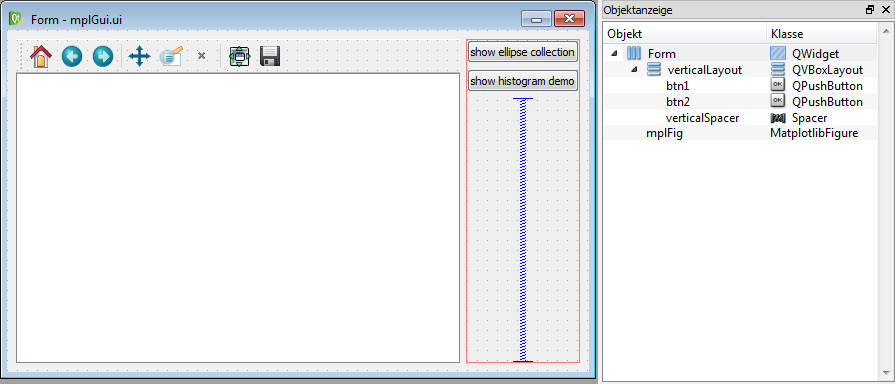
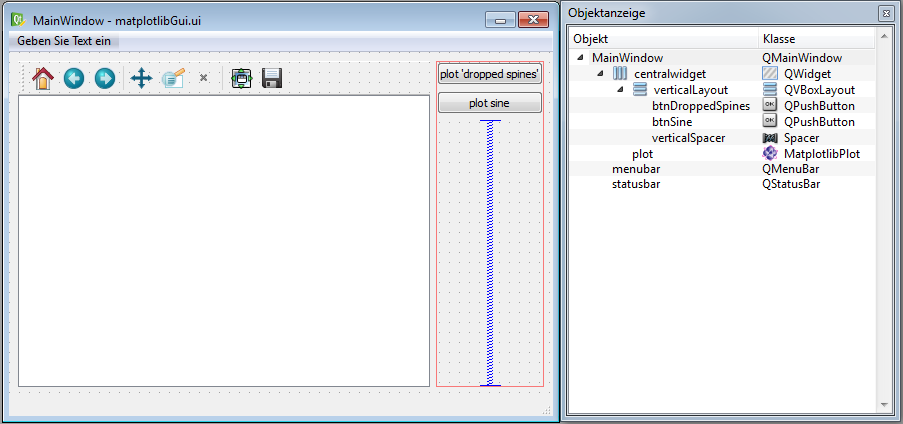
documentation about embedded matplotlib added (including the corresponding demo script)

Changed region(s): [[0.0, 0.0, 1.0, 1.0]]

diff --git a/demo/ui/embeddedMatplotlib/matplotlibGui.py b/demo/ui/embeddedMatplotlib/matplotlibGui.py
@@ -1,0 +1,56 @@
+import matplotlib
+matplotlib.use('module://mpl_itom.backend_itomagg',False)
+import numpy as np
+import matplotlib.pyplot as plt
+from mpl_toolkits.mplot3d import Axes3D
+
+def plotDroppedSpines():
+    '''
+    plot taken from matplotlib example 'spines_demo_dropped.py'
+    '''
+    canvas = gui.plot #reference to matplotlibPlot widget
+    fig = plt.figure(num = 3, canvas=canvas)
+    ax = fig.add_subplot(111)
+    ax.clear()
+    
+    image = np.random.uniform(size=(10, 10))
+    ax.imshow(image, cmap=plt.cm.gray, interpolation='nearest')
+    ax.set_title('dropped spines')
+
+    # Move left and bottom spines outward by 10 points
+    ax.spines['left'].set_position(('outward', 10))
+    ax.spines['bottom'].set_position(('outward', 10))
+    # Hide the right and top spines
+    ax.spines['right'].set_visible(False)
+    ax.spines['top'].set_visible(False)
+    # Only show ticks on the left and bottom spines
+    ax.yaxis.set_ticks_position('left')
+    ax.xaxis.set_ticks_position('bottom')
+    
+    plt.show()
+    
+
+def plotSine():
+    '''
+    plots sine, taken from matplotlib gallery examples
+    '''
+    t = np.arange(0.0, 1.0, 0.01)
+    s = np.sin(2*np.pi*t)
+    
+    canvas = gui.plot #reference to matplotlibPlot widget
+    fig = plt.figure(num = 3, canvas=canvas)
+    ax = fig.add_subplot(111)
+    ax.clear()
+    ax.plot(t,s)
+    
+    plt.show()
+
+gui = ui("matplotlibGui.ui", type = ui.TYPEWINDOW)
+gui.btnSine.connect("clicked()", plotSine)
+gui.btnDroppedSpines.connect("clicked()", plotDroppedSpines)
+gui.show()
+
+# if you call this script for the second time, the given figure-num (3)
+# is already in used for the lastly closed figure. Therefore also tell
+# matplotlib to close this figure handle.
+plt.close(3)

diff --git a/docs/userDoc/source/08_scriptLanguage/pymod-matplotlib.rst b/docs/userDoc/source/08_scriptLanguage/pymod-matplotlib.rst
@@ -70,26 +70,124 @@ Its source code is:
 Please consider that the original source code has been changed such that the first two lines are prepended. After executing this script, the following figure is displayed in |itom|:
 
 .. figure:: images/matplotlib_ellipseCollection.png
-    :scale: 100%
+    :scale: 80%
     :align: center
 
 .. note::
     
-    If the figure does not appear, the matplotlib designer widget for |itom| is not available. This means, the library **matplotlibFigure** in the **designer** folder of |itom| is missing.
+    If the figure does not appear, the matplotlib designer widget for |itom| is not available. This means, the library **matplotlibPlot** in the **designer** folder of |itom| is missing.
     
 Embedding a matplotlib figure in your own user interface
 ---------------------------------------------------------
 
-|itom| not only provides stand-alone windows for showing the result of the matplotlib, but it is also possible to integrate a matplotlib canvas into own user interfaces created by the
+|itom| not only provides stand-alone windows for showing the result of the *matplotlib*, but it is also possible to integrate a *matplotlib* canvas into own user interfaces created by the
 QtDesigner and scripted with |python|. For more information how to do this, see :ref:`qtdesigner`.
 
-If you open the QtDesigner, you will see a widget **MatplotlibFigure** in the section **ITOM Plugins**. Then you can drag&drop one instance of this widget onto your user interface. In our
-case we opened a new main window and placed on the left side a MatplotlibFigure (name: mplFig) and on the right side, there are two buttons (name: btn1 and btn2):
+In the widget library of QtDesigner there is the widget **MatplotlibPlot** in the section **itom Plugins** (under the consumption that the corresponding designer plugin library is contained in the folder *designer* of the root directory of |itom|). Drag&Drop an instance of this widget onto your user interface. 
+
+In the following example, a new main window is created where a *MatplotlibPlot* widget (name: *plot*) is placed on the left side while two buttons (name: *btnDroppedSpines* and *btnSine*) are placed on the right side:
 
 .. figure:: images/matplotlib_gui.png
-    :scale: 100%
+    :scale: 80%
     :align: center
 
-When any of the both buttons are pressed, the corresponding example should be displayed in the figure **mplFig** on the left side.
+When any of the both buttons are pressed, the following example should be displayed in the figure **plot** on the left side.
 
-Rest TODO
+.. code-block:: python
+    
+    import matplotlib
+    matplotlib.use('module://mpl_itom.backend_itomagg',False)
+    import numpy as np
+    import matplotlib.pyplot as plt
+    from mpl_toolkits.mplot3d import Axes3D
+
+    def plotDroppedSpines():
+        '''
+        plot taken from matplotlib example 'spines_demo_dropped.py'
+        '''
+        canvas = gui.plot #reference to matplotlibPlot widget
+        fig = plt.figure(num = 3, canvas=canvas)
+        ax = fig.add_subplot(111)
+        ax.clear()
+        
+        image = np.random.uniform(size=(10, 10))
+        ax.imshow(image, cmap=plt.cm.gray, interpolation='nearest')
+        ax.set_title('dropped spines')
+
+        # Move left and bottom spines outward by 10 points
+        ax.spines['left'].set_position(('outward', 10))
+        ax.spines['bottom'].set_position(('outward', 10))
+        # Hide the right and top spines
+        ax.spines['right'].set_visible(False)
+        ax.spines['top'].set_visible(False)
+        # Only show ticks on the left and bottom spines
+        ax.yaxis.set_ticks_position('left')
+        ax.xaxis.set_ticks_position('bottom')
+        
+        plt.show()
+        
+
+    def plotSine():
+        '''
+        plots sine, taken from matplotlib gallery examples
+        '''
+        t = np.arange(0.0, 1.0, 0.01)
+        s = np.sin(2*np.pi*t)
+        
+        canvas = gui.plot #reference to matplotlibPlot widget
+        fig = plt.figure(num = 3, canvas=canvas)
+        ax = fig.add_subplot(111)
+        ax.clear()
+        ax.plot(t,s)
+        
+        plt.show()
+
+    gui = ui("matplotlibGui.ui", type = ui.TYPEWINDOW)
+    gui.btnSine.connect("clicked()", plotSine)
+    gui.btnDroppedSpines.connect("clicked()", plotDroppedSpines)
+    gui.show()
+
+    # if you call this script for the second time, the given figure-num (3)
+    # is already in used for the lastly closed figure. Therefore also tell
+    # matplotlib to close this figure handle.
+    plt.close(3)
+    
+The result is:
+
+.. figure:: images/matplotlib_gui_result.png
+    :scale: 80%
+    :align: center
+
+**What happens here?**
+
+* At the end of the script, the user interface *matplotlibGui.ui* is loaded and referenced by the variable *gui*.
+* The click-events of both buttons is connected to the methods *plotSine* and *plotDroppedSpines* respectively.
+* The gui is shown
+
+For both button clicks the following things have to be done:
+
+Once you added the |itom|-backend command as first, mandatory line to your script, the *figure*-class of *matplotlib*
+has got one further keyword-based parameter *canvas*. This needs to be used in order to tell the figure where the
+widget is to plot the content to. If you omit this parameter, a new window is opened with the corresponding output.
+If you set this parameter to the reference of the widget of type *MatplotlibPlot* (here: called canvas), the output is
+print there.
+
+The you have the reference to the figure-instance of *matplotlib* and can go one like usual.
+
+.. note::
+    
+    Once you created one figure that maps to a given widget using the canvas-keyword, this figure is not deleted when
+    a new figure is created using the same keyword. Therefore it will happen that lots of invisible figures need to be handled.
+    Therefore, the *num* keyword argument is used in the methods in the example in order to always tell *matplotlib* that a defined
+    figure with the handle *3* should be instantiated. If this handle already exists, this existing figure is used. Therefore it is
+    also necessary to clear the axes using **ax.clear()**.
+    
+    Furthermore, if you created a figure with a given *num* and *canvas*, deletes the user interface and creates a new one, a new figure
+    with the handle of the old one is not able to plot in the new user interface since it still is connected with the old, deleted
+    widget. Therefore, the command::
+        
+        plt.close(3)
+    
+    is used to firstly delete the matplotlib-figure with handle *3* once the script is re-executed.
+
+This example is contained in the **demo/ui/embeddedMatplotlib** folder.
